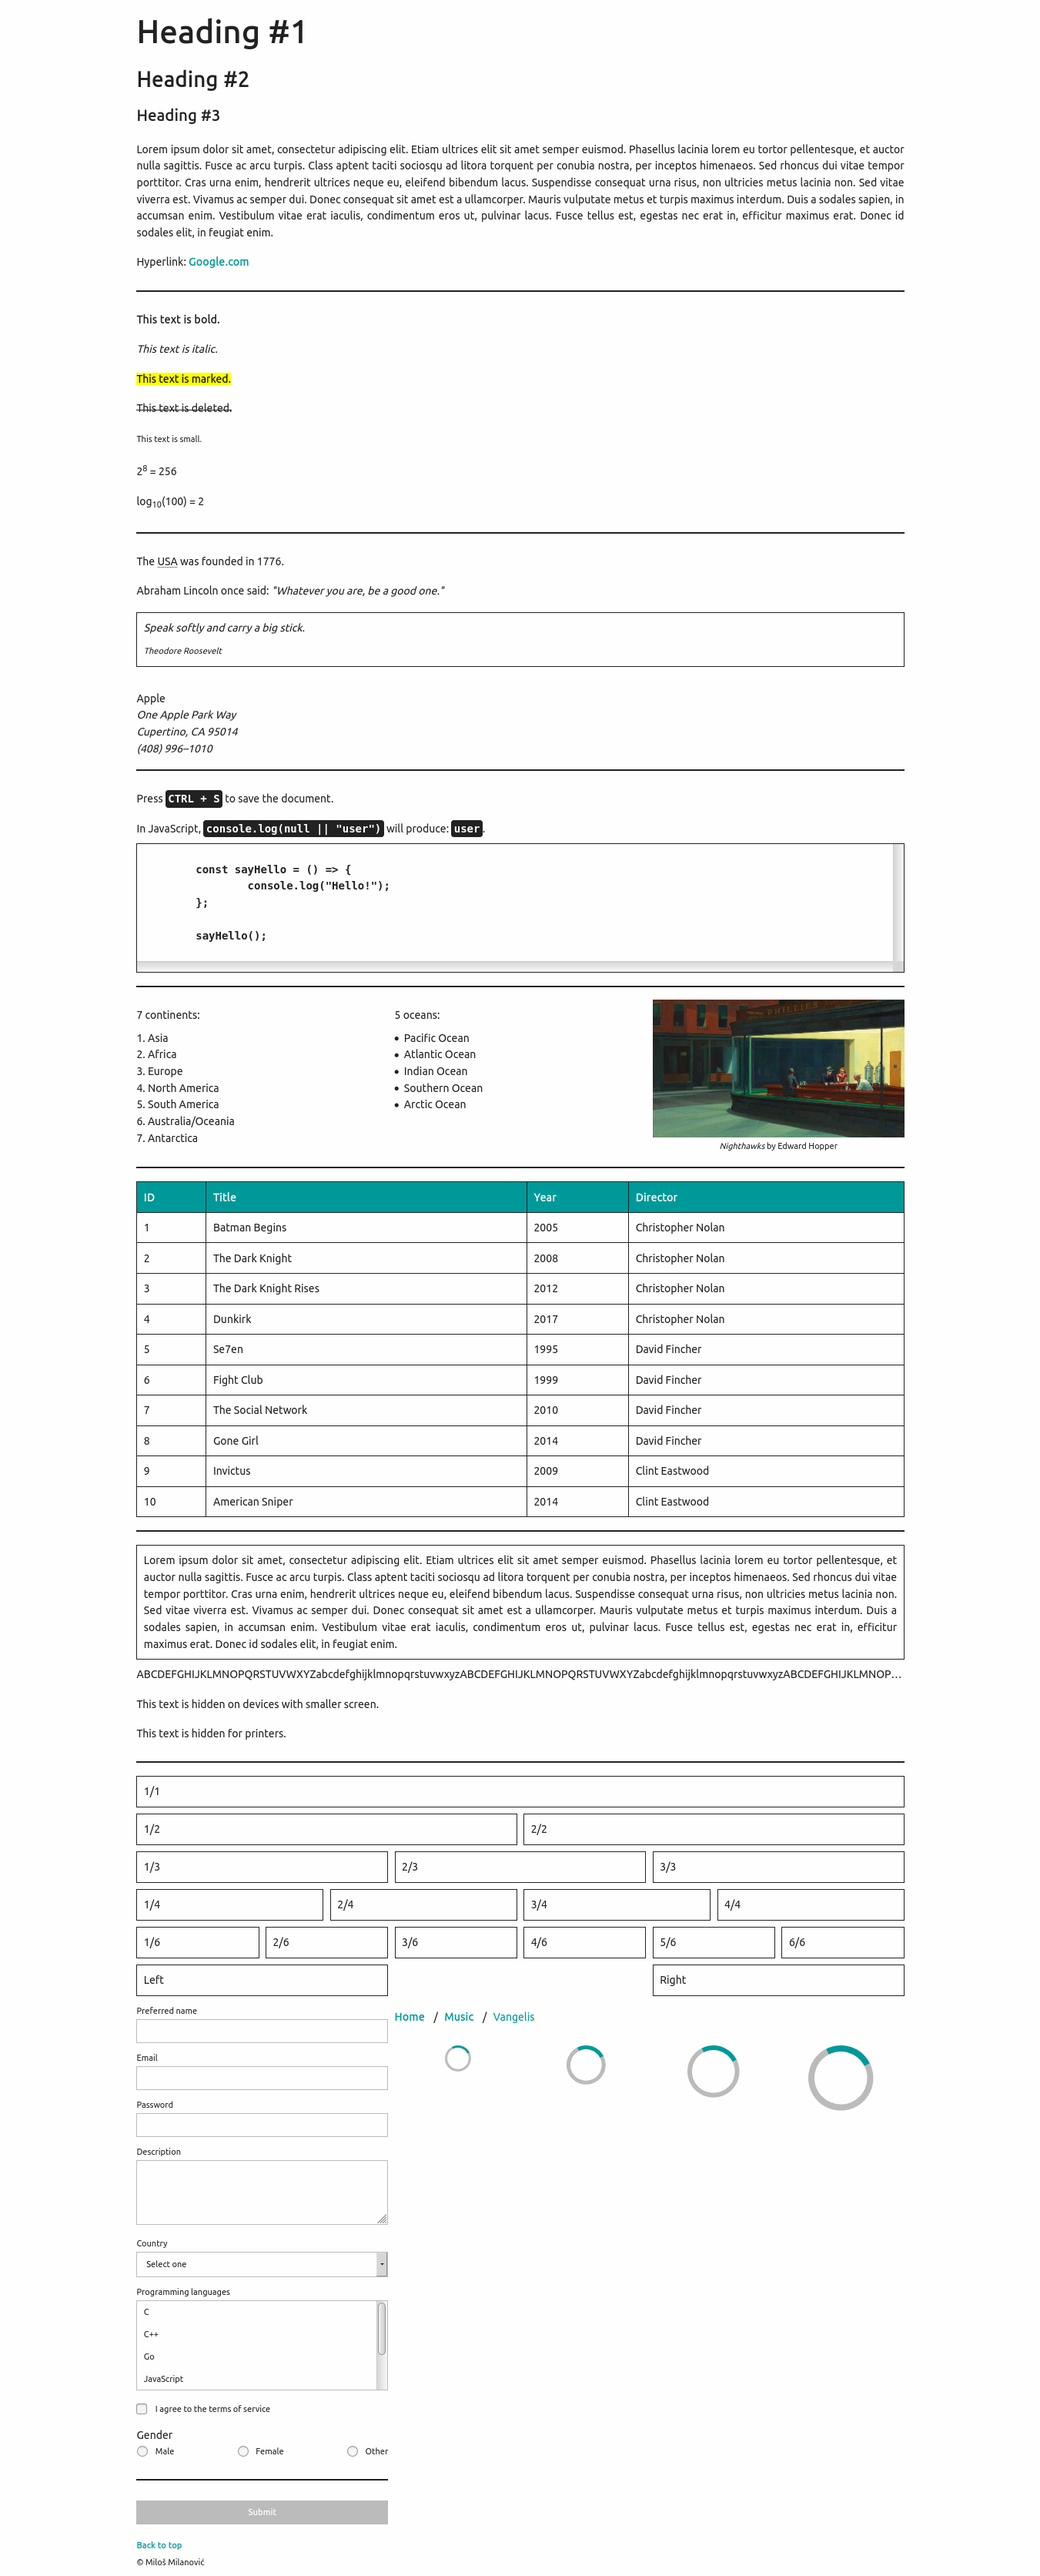
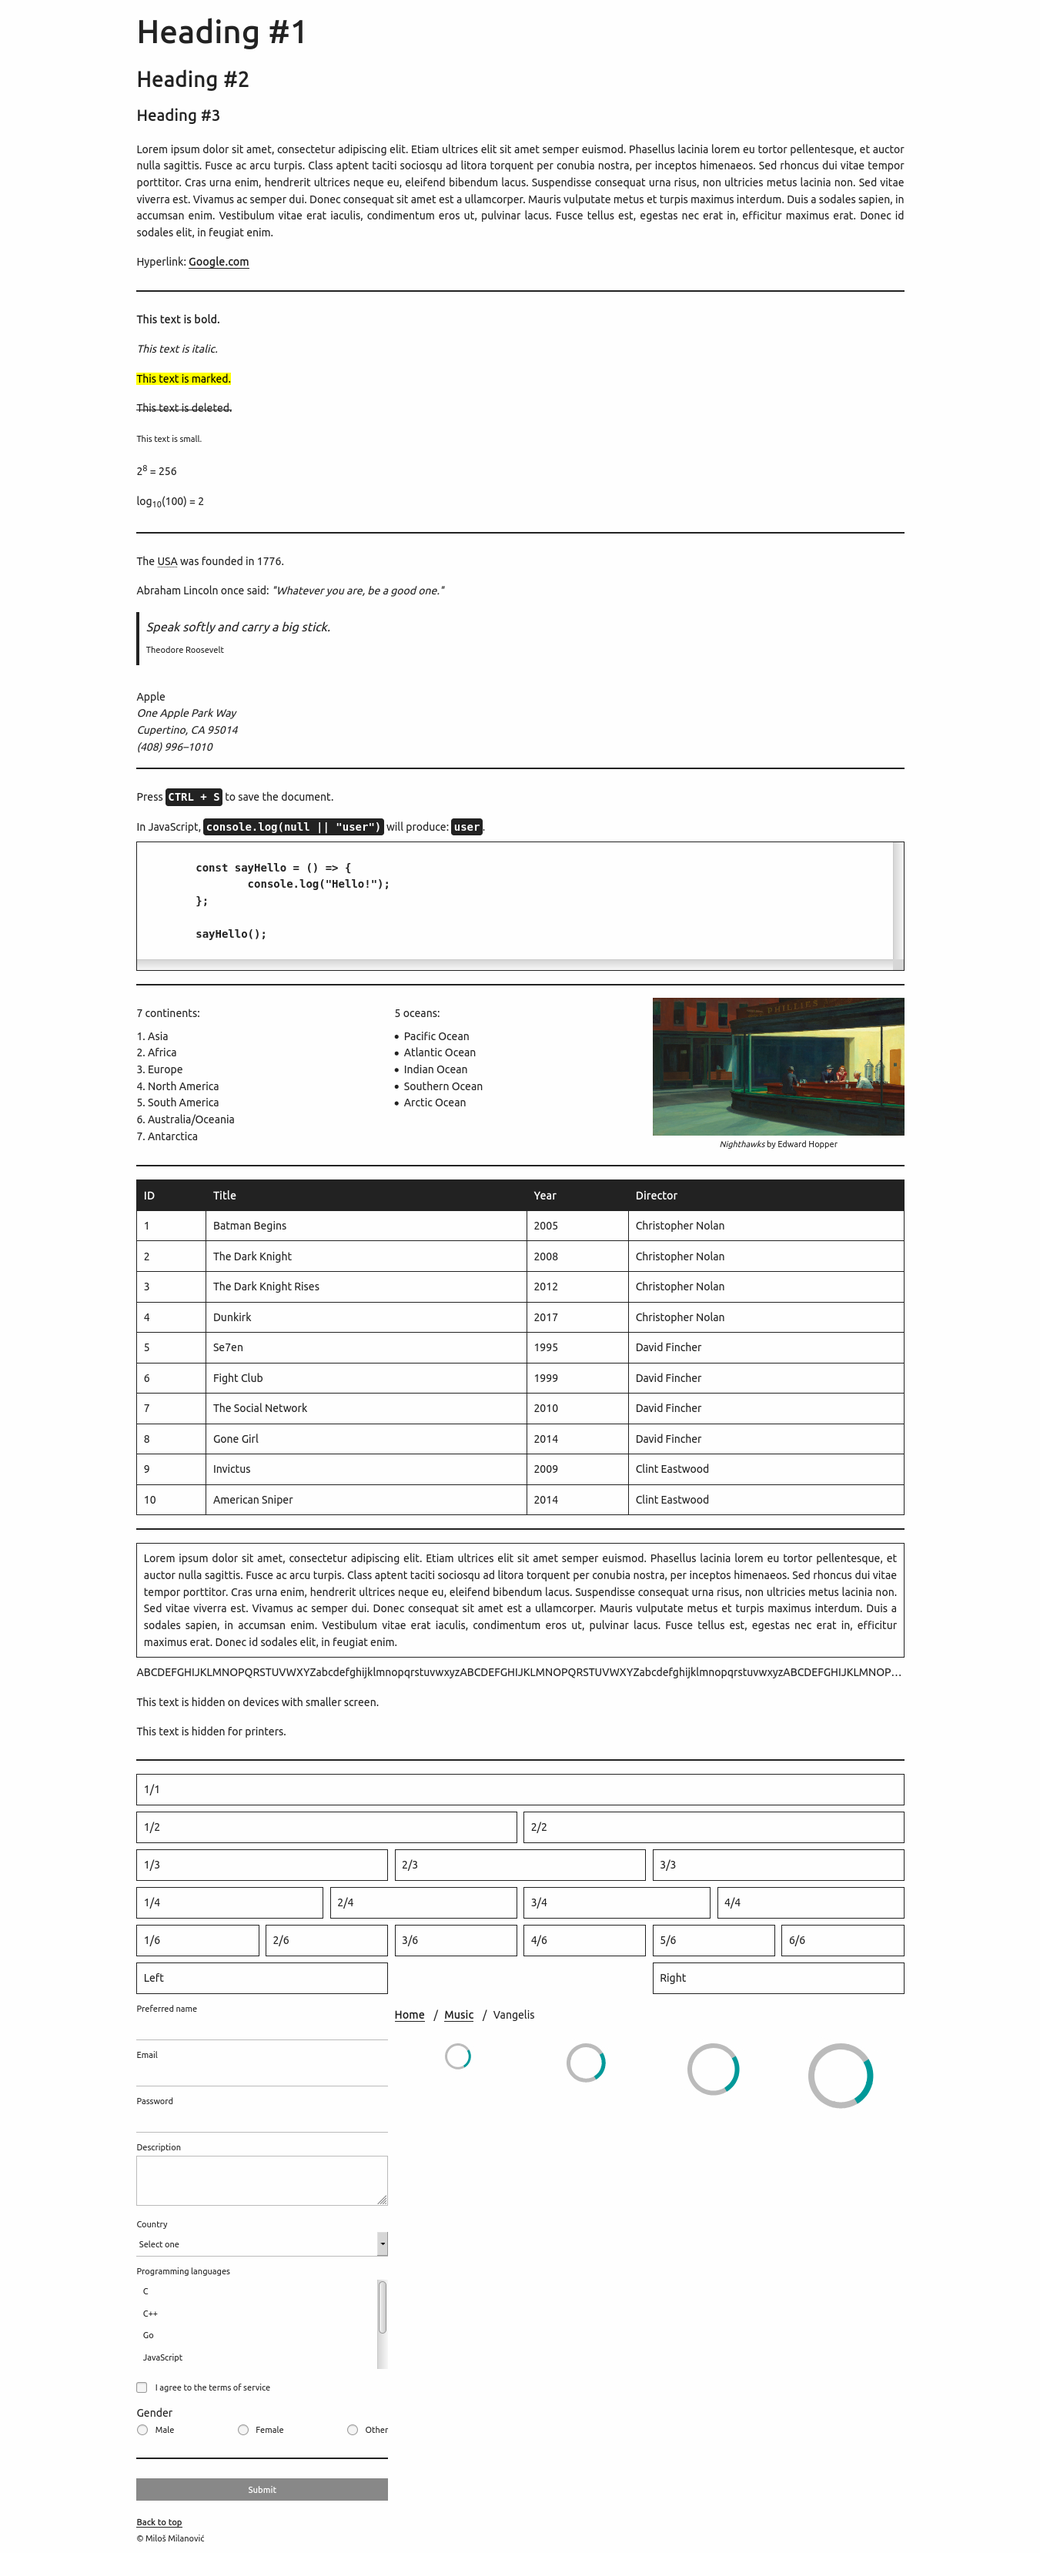
Fix styles for form controls

diff --git a/dist/minimalizr.css b/dist/minimalizr.css
@@ -1,1 +1,1 @@
-@import"https://fonts.googleapis.com/css2?family=Ubuntu&display=swap";*{font-family:"Ubuntu",sans-serif}:root{--main: #099;--lightGray: #bbb;--dark: #222;--red: #f00;--light: #fefefe;--yellow: #ff0;--gray: #888}*{box-sizing:border-box;margin:0;padding:0}*:focus{outline:3px solid rgba(0,127,255,.5);outline-offset:3px}*::selection{background-color:var(--main);color:var(--light)}html{font-size:100%;scroll-behavior:smooth}body{background-color:var(--light);color:var(--dark);font-size:1rem;line-height:1.6rem}h1,h2,h3{margin:10px 0}h1{font-size:3rem;line-height:4.8rem}h2{font-size:2rem;line-height:3.2rem}h3{font-size:1.5rem;line-height:2.4rem}p{padding:10px 0;text-align:justify}a{color:var(--main);cursor:pointer;font-weight:bold;text-decoration:none}a:hover{border-bottom:2px solid var(--main)}strong{font-weight:bold}em{font-style:italic}mark{background-color:var(--yellow)}del{text-decoration:line-through}small,sub,sup{font-size:smaller}sub{vertical-align:sub}sup{vertical-align:super}abbr[title]{text-decoration:underline dotted}q{font-style:italic}q::before,q::after{content:'"'}blockquote{border:1px solid var(--dark);font-style:italic;margin:10px 0;padding:10px;text-align:justify}blockquote div{font-size:smaller;margin-top:10px}address,cite{font-style:italic}kbd,samp,code,pre{font-family:monospace;font-weight:bold}kbd,samp,code{background-color:var(--dark);color:var(--light);padding:4px;border-radius:4px}.code{border:1px solid var(--dark);padding:0 10px;overflow:scroll}.code pre{tab-size:2}.code pre code{background-color:inherit;color:inherit}ul,ol{list-style-position:inside}img{max-width:100%;vertical-align:middle}figure figcaption{font-size:smaller;text-align:center}.table-responsive{max-width:100%;overflow-x:auto}table{border-collapse:collapse;width:100%}th,td{border:1px solid var(--dark);padding:10px;text-align:left}th{background-color:var(--main);color:var(--light)}form{display:grid;grid-auto-flow:row;grid-gap:10px}label{font-size:smaller}label span{user-select:none}label span:first-child{display:inline-block}.checkbox label{cursor:pointer;display:inline-flex;align-items:center}.checkbox input[type=checkbox]{width:auto;margin-right:10px}.radiogroup{display:flex;justify-content:space-between;flex-wrap:wrap}.radiogroup>span{width:100%}.radiogroup label{cursor:pointer;user-select:none;display:inline-flex;align-items:center;flex-direction:row-reverse}.radiogroup input[type=radio]{width:auto;margin-right:10px}input,textarea,select{border:2px solid var(--lightGray);background-color:var(--light);padding:10px;width:100%;box-shadow:none}input:invalid,textarea:invalid,select:invalid{border-color:var(--red)}input:disabled,textarea:disabled,select:disabled{color:var(--gray);cursor:not-allowed}select[multiple]{padding:0}select[multiple] option{padding:10px}textarea{height:100px;min-height:40px;max-height:300px;resize:vertical}button{cursor:pointer;font-weight:bold;border:0;background-color:var(--lightGray);border:2px solid var(--lightGray);color:var(--light);padding:10px;transition-property:background-color;transition-duration:.2s;transition-timing-function:ease-in-out}button:hover:not(:disabled){background-color:var(--main)}button:disabled{cursor:not-allowed}input:focus:not([type=radio]):not([type=checkbox]),textarea:focus:not([type=radio]):not([type=checkbox]),select:focus:not([type=radio]):not([type=checkbox]),button:focus:not([type=radio]):not([type=checkbox]){outline:none;border-color:var(--main) !important}hr{border:1px solid var(--dark);margin:20px 0}footer{font-size:smaller}@media screen and (max-width: 768px){body{font-size:.9rem}}.container{width:1200px;max-width:100%;margin:0 auto}.container-fluid{width:100%}.container,.container-fluid{padding:0 10px}.row{display:grid;grid-template-columns:repeat(12, 1fr);margin:10px 0}.row-gapped{grid-gap:10px}.col-1{grid-column:span 1}.col-2{grid-column:span 2}.col-3{grid-column:span 3}.col-4{grid-column:span 4}.col-5{grid-column:span 5}.col-6{grid-column:span 6}.col-7{grid-column:span 7}.col-8{grid-column:span 8}.col-9{grid-column:span 9}.col-10{grid-column:span 10}.col-11{grid-column:span 11}.col-12{grid-column:span 12}.col-pull-right{grid-column-end:-1}@media screen and (max-width: 768px){.col-sm-1{grid-column:span 1}.col-sm-2{grid-column:span 2}.col-sm-3{grid-column:span 3}.col-sm-4{grid-column:span 4}.col-sm-5{grid-column:span 5}.col-sm-6{grid-column:span 6}.col-sm-7{grid-column:span 7}.col-sm-8{grid-column:span 8}.col-sm-9{grid-column:span 9}.col-sm-10{grid-column:span 10}.col-sm-11{grid-column:span 11}.col-sm-12{grid-column:span 12}}.bordered{border:1px solid var(--dark)}.padded{padding:10px}.text-left{text-align:left}.text-center{text-align:center}.text-right{text-align:right}.text-justify{text-align:justify}.text-truncate{overflow:hidden;text-overflow:ellipsis;white-space:nowrap}.no-scroll{overflow:hidden}ul.breadcrumbs{display:flex;list-style-type:none;user-select:none}ul.breadcrumbs li{padding:10px 0}ul.breadcrumbs li:not(:last-child)::after{content:" / ";color:var(--dark);display:inline-block;margin:0 10px}ul.breadcrumbs li:last-child a{cursor:initial;font-weight:normal;border-bottom:0}ul.breadcrumbs li:last-child a:hover{color:inherit}@keyframes spin{from{transform:rotate(0deg)}to{transform:rotate(360deg)}}.spinner{height:40px;width:40px}.spinner,.spinner-l,.spinner-xl,.spinner-xxl{border:4px solid var(--lightGray);border-top:4px solid var(--main);border-radius:50%;display:block;margin:10px auto;overflow:hidden;animation-name:spin;animation-duration:1s;animation-timing-function:linear;animation-iteration-count:infinite}.spinner-l{height:60px;width:60px;border-width:6px}.spinner-xl{height:80px;width:80px;border-width:8px}.spinner-xxl{height:100px;width:100px;border-width:10px}@media screen and (max-width: 768px){.hide-on-sm{display:none}}@media print{.hide-on-print{display:none}}/*# sourceMappingURL=minimalizr.css.map */
+@import"https://fonts.googleapis.com/css2?family=Ubuntu&display=swap";*{font-family:"Ubuntu",sans-serif}:root{--main: #099;--lightGray: #bbb;--dark: #222;--red: #f00;--light: #fefefe;--yellow: #ff0;--gray: #888}*{box-sizing:border-box;margin:0;padding:0}*:focus{outline:3px solid rgba(0,127,255,.5);outline-offset:3px}*::selection{background-color:var(--main);color:var(--light)}html{font-size:100%;scroll-behavior:smooth}body{background-color:var(--light);color:var(--dark);font-size:1rem;line-height:1.6rem}h1,h2,h3{margin:10px 0}h1{font-size:3rem;line-height:4.8rem}h2{font-size:2rem;line-height:3.2rem}h3{font-size:1.5rem;line-height:2.4rem}p{padding:10px 0;text-align:justify}a{color:var(--dark);cursor:pointer;font-weight:bold;text-decoration:none;border-bottom:2px solid var(--dark)}a:hover{color:var(--main);border-bottom-color:var(--main)}strong{font-weight:bold}em{font-style:italic}mark{background-color:var(--yellow)}del{text-decoration:line-through}small,sub,sup{font-size:smaller}sub{vertical-align:sub}sup{vertical-align:super}abbr[title]{text-decoration:underline dotted}q{font-style:italic}q::before,q::after{content:'"'}blockquote{border-left:5px solid var(--dark);font-style:italic;margin:10px 0;padding:10px;text-align:justify;font-size:larger}blockquote div{font-size:small;font-style:normal;margin-top:10px}address,cite{font-style:italic}kbd,samp,code,pre{font-family:monospace;font-weight:bold}kbd,samp,code{background-color:var(--dark);color:var(--light);padding:4px;border-radius:4px}.code{border:1px solid var(--dark);padding:0 10px;overflow:scroll}.code pre{tab-size:2}.code pre code{background-color:inherit;color:inherit}ul,ol{list-style-position:inside}img{max-width:100%;vertical-align:middle}figure figcaption{font-size:smaller;text-align:center}.table-responsive{max-width:100%;overflow-x:auto}table{border-collapse:collapse;width:100%}th,td{border:1px solid var(--dark);padding:10px;text-align:left}th{background-color:var(--dark);color:var(--light)}form{display:grid;grid-auto-flow:row;grid-gap:10px}label{font-size:smaller}label span{user-select:none}label span:first-child{display:inline-block}.checkbox label{cursor:pointer;display:inline-flex;align-items:center}.checkbox input[type=checkbox]{width:auto;margin-right:10px}.radiogroup{display:flex;justify-content:space-between;flex-wrap:wrap}.radiogroup>span{width:100%}.radiogroup label{cursor:pointer;user-select:none;display:inline-flex;align-items:center;flex-direction:row-reverse}.radiogroup input[type=radio]{width:auto;margin-right:10px}input,textarea,select{border:2px solid var(--lightGray);background-color:var(--light);padding:10px;width:100%;box-shadow:none}input:invalid,textarea:invalid,select:invalid{border-color:var(--red)}input:disabled,textarea:disabled,select:disabled{color:var(--gray);cursor:not-allowed}select[multiple]{padding:0;border:0}select[multiple] option{padding:10px}input,select{border-left:0;border-right:0;border-top:0;padding-left:0}textarea{height:auto;min-height:40px;max-height:300px;resize:vertical}button{cursor:pointer;font-weight:bold;border:0;background-color:var(--gray);color:var(--light);padding:10px;transition-property:background-color;transition-duration:.2s;transition-timing-function:ease-in-out}button:hover:not(:disabled){background-color:var(--main)}button:disabled{cursor:not-allowed}input:focus:not([type=radio]):not([type=checkbox]),textarea:focus:not([type=radio]):not([type=checkbox]),select:focus:not([type=radio]):not([type=checkbox]),button:focus:not([type=radio]):not([type=checkbox]){outline:none;border-color:var(--main) !important}hr{border:1px solid var(--dark);margin:20px 0}footer{font-size:smaller}@media screen and (max-width: 768px){body{font-size:.9rem}}.container{width:1200px;max-width:100%;margin:0 auto}.container-fluid{width:100%}.container,.container-fluid{padding:0 10px}.row{display:grid;grid-template-columns:repeat(12, 1fr);margin:10px 0}.row-gapped{grid-gap:10px}.col-1{grid-column:span 1}.col-2{grid-column:span 2}.col-3{grid-column:span 3}.col-4{grid-column:span 4}.col-5{grid-column:span 5}.col-6{grid-column:span 6}.col-7{grid-column:span 7}.col-8{grid-column:span 8}.col-9{grid-column:span 9}.col-10{grid-column:span 10}.col-11{grid-column:span 11}.col-12{grid-column:span 12}.col-pull-right{grid-column-end:-1}@media screen and (max-width: 768px){.col-sm-1{grid-column:span 1}.col-sm-2{grid-column:span 2}.col-sm-3{grid-column:span 3}.col-sm-4{grid-column:span 4}.col-sm-5{grid-column:span 5}.col-sm-6{grid-column:span 6}.col-sm-7{grid-column:span 7}.col-sm-8{grid-column:span 8}.col-sm-9{grid-column:span 9}.col-sm-10{grid-column:span 10}.col-sm-11{grid-column:span 11}.col-sm-12{grid-column:span 12}}.bordered{border:1px solid var(--dark)}.padded{padding:10px}.text-left{text-align:left}.text-center{text-align:center}.text-right{text-align:right}.text-justify{text-align:justify}.text-truncate{overflow:hidden;text-overflow:ellipsis;white-space:nowrap}.no-scroll{overflow:hidden}ul.breadcrumbs{display:flex;list-style-type:none;user-select:none}ul.breadcrumbs li{padding:10px 0}ul.breadcrumbs li:not(:last-child)::after{content:" / ";color:var(--dark);display:inline-block;margin:0 10px}ul.breadcrumbs li:last-child a{cursor:initial;font-weight:normal;border-bottom:0}ul.breadcrumbs li:last-child a:hover{color:inherit}@keyframes spin{from{transform:rotate(0deg)}to{transform:rotate(360deg)}}.spinner{height:40px;width:40px}.spinner,.spinner-l,.spinner-xl,.spinner-xxl{border:4px solid var(--lightGray);border-top:4px solid var(--main);border-radius:50%;display:block;margin:10px auto;overflow:hidden;animation-name:spin;animation-duration:1s;animation-timing-function:linear;animation-iteration-count:infinite}.spinner-l{height:60px;width:60px;border-width:6px}.spinner-xl{height:80px;width:80px;border-width:8px}.spinner-xxl{height:100px;width:100px;border-width:10px}@media screen and (max-width: 768px){.hide-on-sm{display:none}}@media print{.hide-on-print{display:none}}/*# sourceMappingURL=minimalizr.css.map */

diff --git a/src/_base.scss b/src/_base.scss
@@ -73,13 +73,15 @@ p {
 
 /* Hyperlinks */
 a {
-	color: var(--main);
+	color: var(--dark);
 	cursor: pointer;
 	font-weight: bold;
 	text-decoration: none;
-
+	border-bottom: 2px solid var(--dark);
+	
 	&:hover {
-		border-bottom: 2px solid var(--main);
+		color: var(--main);
+		border-bottom-color: var(--main);
 	}
 }
 
@@ -127,14 +129,16 @@ q {
 }
 
 blockquote {
-	border: 1px solid var(--dark);
+	border-left: 5px solid var(--dark);
 	font-style: italic;
 	margin: $spacing 0;
 	padding: $spacing;
 	text-align: justify;
+	font-size: larger;
 
 	div {
-		font-size: smaller;
+		font-size: small;
+		font-style: normal;
 		margin-top: $spacing;
 	}
 }
@@ -205,7 +209,7 @@ th, td {
 }
 
 th {
-	background-color: var(--main);
+	background-color: var(--dark);
 	color: var(--light);
 }
 
@@ -279,14 +283,24 @@ input, textarea, select {
 
 select[multiple] {
 	padding: 0;
+	border: 0;
 
 	option {
 		padding: $spacing;
 	}
 }
 
+input, select {
+	border: {
+		left: 0;
+		right: 0;
+		top: 0;
+	}
+	padding-left: 0;
+}
+
 textarea {
-	height: 100px;
+	height: auto;
 	min-height: 40px;
 	max-height: 300px;
 	resize: vertical;
@@ -297,8 +311,7 @@ button {
 	cursor: pointer;
 	font-weight: bold;
 	border: 0;
-	background-color: var(--lightGray);
-	border: 2px solid var(--lightGray);
+	background-color: var(--gray);
 	color: var(--light);
 	padding: $spacing;
 
